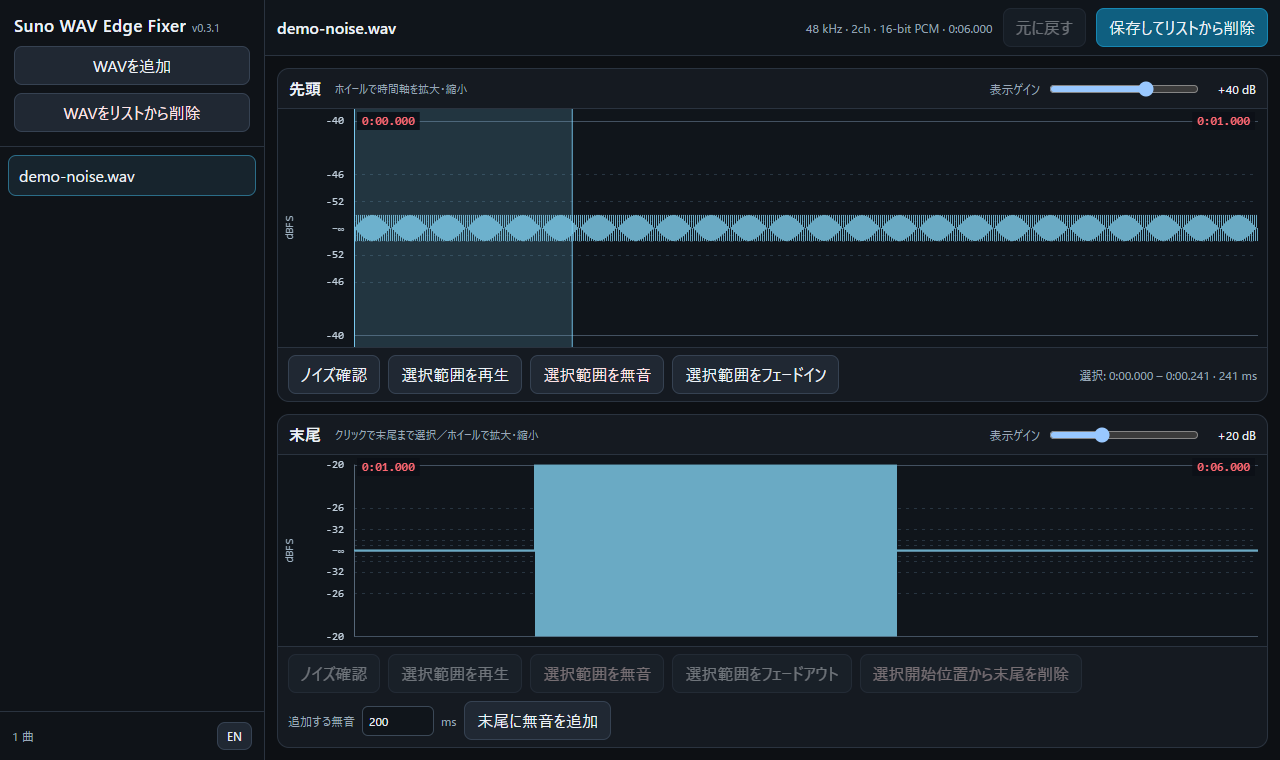
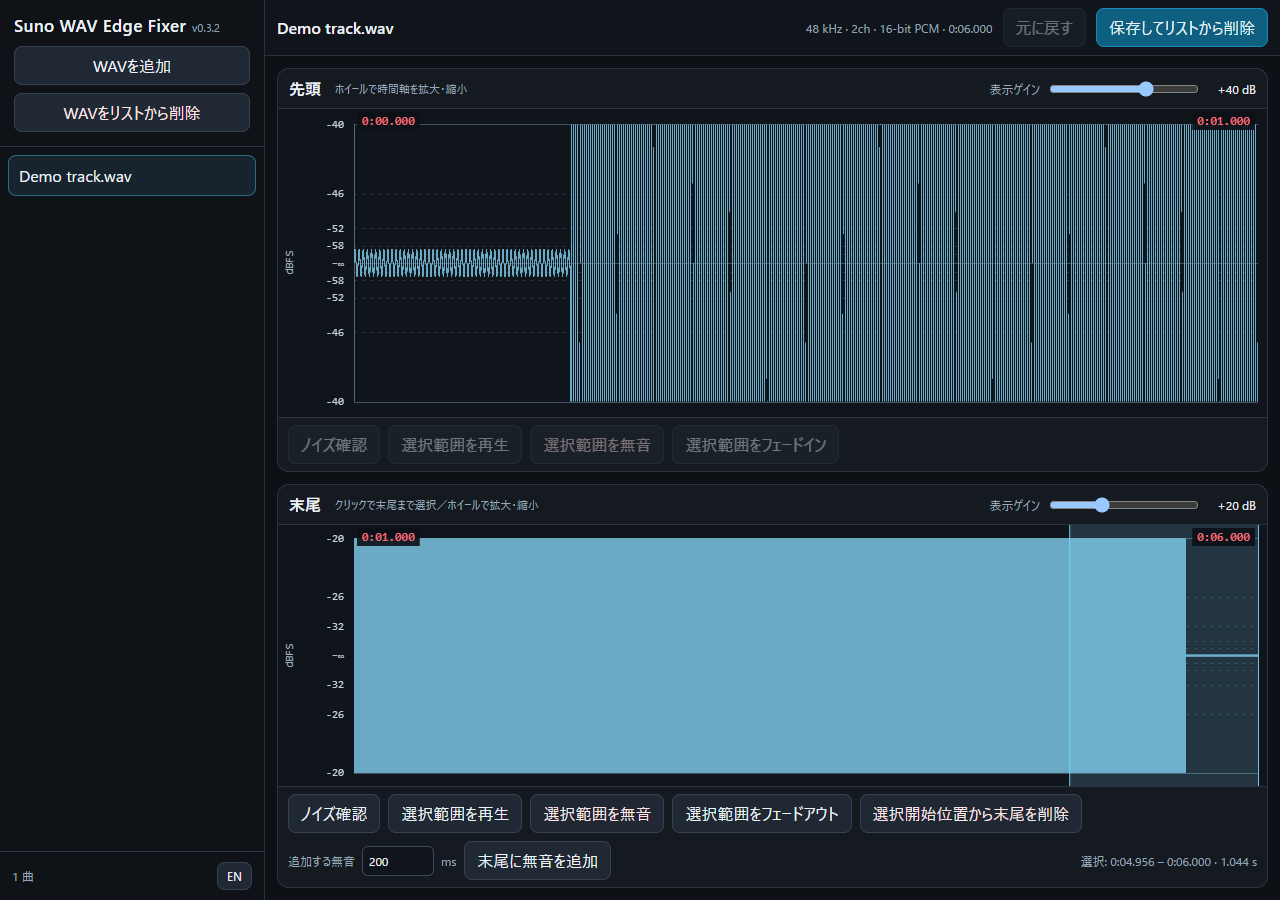
v0.3.2 uploaded.

diff --git a/index.html b/index.html
@@ -3,7 +3,7 @@
 <head>
 <meta charset="utf-8" />
 <meta name="viewport" content="width=device-width, initial-scale=1" />
-<title>Suno WAV Edge Fixer v0.3.1</title>
+<title>Suno WAV Edge Fixer v0.3.2</title>
 <style>
   :root {
     color-scheme: dark;
@@ -299,7 +299,7 @@
 <div id="app">
   <aside class="sidebar">
     <div class="sidebar-head">
-      <div class="brand">Suno WAV Edge Fixer<span id="appVersion" class="version">v0.3.1</span></div>
+      <div class="brand">Suno WAV Edge Fixer<span id="appVersion" class="version">v0.3.2</span></div>
       <div class="add-row">
         <button id="addFilesBtn" data-i18n="addFiles">WAVを追加</button>
         <input id="fileInput" type="file" accept="audio/wav,.wav" multiple hidden />
@@ -1149,13 +1149,20 @@
 
   function bindWaveInteractions(kind) {
     const canvas = views[kind].canvas;
-    let dragging = false;
+    let dragPointerId = null;
     let anchor = 0;
 
+    function cancelDrag() {
+      if (dragPointerId === null) return;
+      const pointerId = dragPointerId;
+      dragPointerId = null;
+      try { canvas.releasePointerCapture(pointerId); } catch (_) {}
+    }
+
     canvas.addEventListener('pointerdown', ev => {
-      if (!current || isSaving) return;
+      if (!current || isSaving || ev.button !== 0 || dragPointerId !== null) return;
       stopPlayback();
-      dragging = true;
+      dragPointerId = ev.pointerId;
       anchor = canvasTimeFromEvent(kind, ev);
       views[kind].selection = { start: anchor, end: anchor };
       canvas.setPointerCapture(ev.pointerId);
@@ -1164,18 +1171,23 @@
     });
 
     canvas.addEventListener('pointermove', ev => {
-      if (!dragging || !current) return;
+      if (ev.pointerId !== dragPointerId) return;
+      // A release outside the window can arrive without pointerup on this canvas.
+      // Hover must never extend a selection, even if capture/blur events were lost.
+      if (!(ev.buttons & 1) || !current || isSaving || !views[kind].selection) {
+        cancelDrag();
+        return;
+      }
       views[kind].selection.end = canvasTimeFromEvent(kind, ev);
       drawWave(kind);
       updateControls();
     });
 
     const finish = ev => {
-      if (!dragging) return;
-      dragging = false;
-      try { canvas.releasePointerCapture(ev.pointerId); } catch (_) {}
+      if (ev.pointerId !== dragPointerId) return;
+      cancelDrag();
       const sel = views[kind].selection;
-      if (sel && Math.abs(sel.end - sel.start) < 0.0005) {
+      if (current && sel && Math.abs(sel.end - sel.start) < 0.0005) {
         // A single click on Tail chooses a precise cut / fade-to-end point.
         views[kind].selection = kind === 'tail'
           ? { start: anchor, end: current.info.duration }
@@ -1185,11 +1197,18 @@
       updateControls();
     };
     canvas.addEventListener('pointerup', finish);
-    canvas.addEventListener('pointercancel', finish);
+    window.addEventListener('pointerup', finish);
+    for (const type of ['pointercancel', 'lostpointercapture']) {
+      canvas.addEventListener(type, ev => {
+        if (ev.pointerId === dragPointerId) cancelDrag();
+      });
+    }
+    window.addEventListener('blur', cancelDrag);
 
     canvas.addEventListener('wheel', ev => {
       if (!current) return;
       ev.preventDefault();
+      cancelDrag();
       stopPlayback();
       const v = views[kind];
       const factor = ev.deltaY < 0 ? 0.8 : 1.25;

diff --git a/README.md b/README.md
@@ -1,6 +1,8 @@
 # Suno WAV Edge Fixer
 
-**バージョン：v0.3.1**
+**バージョン：v0.3.2**
+
+v0.3.2では、マウスを離した後も波形の選択が追従する問題と、ドラッグ中のホイール操作によるエラーを修正しました。
 
 **Sunoなどで生成したWAV音源の先頭・末尾だけを、ブラウザで手早く修正するツールです。**
 
@@ -8,7 +10,7 @@
 
 - **インストール不要**：`index.html` を Chrome / Edge で開くだけ（オフライン動作）。
 - **波形の表示ゲイン 0〜+60 dB**：実際の音源を増幅せず、極小ノイズを視認。
-- **ノイズ確認（v0.3.1）**：「選択範囲を再生」の左のボタンで、小さな音を試聴用に自動増幅。出力ピークと短時間RMSで増幅量を抑え、保存するWAVは変更しません。
+- **ノイズ確認**：「選択範囲を再生」の左のボタンで、小さな音を試聴用に自動増幅。出力ピークと短時間RMSで増幅量を抑え、保存するWAVは変更しません。
 - **先頭**：範囲の無音化・フェードイン。
 - **末尾**：範囲の無音化・フェードアウト・指定位置以降の切り詰め・無音の追加。
 - **原音の維持**：対応するWAVのPCMサンプルを直接編集。未編集区間を再エンコードしません。
@@ -69,6 +71,6 @@ MIT License — Copyright (c) 2026 cityedge. 詳細は [LICENSE](LICENSE) を参
 
 ## English overview
 
-**Suno WAV Edge Fixer v0.3.1** is a lightweight, offline, browser-based editor for cleaning up the **beginning and end** of WAV tracks. Inspect very quiet clicks using display-only gain (+0 to +60 dB), audition them with **Check noise**, silence a selection, apply a linear fade-in/out, trim the end, or append silence. Queue multiple tracks, download each edited WAV under its original filename, or remove unaffected tracks from the list without downloading them.
+**Suno WAV Edge Fixer v0.3.2** is a lightweight, offline, browser-based editor for cleaning up the **beginning and end** of WAV tracks. Inspect very quiet clicks using display-only gain (+0 to +60 dB), audition them with **Check noise**, silence a selection, apply a linear fade-in/out, trim the end, or append silence. Queue multiple tracks, download each edited WAV under its original filename, or remove unaffected tracks from the list without downloading them.
 
 Open `index.html` in desktop Chrome or Edge; no installation, build process, server, or upload is required. The interface supports both Japanese and English. Output remains in the source WAV's sample rate, channel count and sample format. **See the [English user manual](USER_MANUAL_EN.md)** for steps, shortcuts and limitations. Licensed under the [MIT License](LICENSE).

diff --git a/USER_MANUAL_EN.md b/USER_MANUAL_EN.md
@@ -1,6 +1,6 @@
 # Suno WAV Edge Fixer — User Manual
 
-**Applies to v0.3.1 · Updated October 9, 2026**
+**Applies to v0.3.2 · Updated November 14, 2026**
 
 ## 1. Purpose
 
@@ -37,6 +37,8 @@ The **Display gain** slider multiplies the waveform **for display only**. For ex
 The left-hand scale is **dBFS of the underlying sample amplitude**, not LUFS or perceived loudness. With a +40 dB display gain, the top/bottom edges represent approximately −40 dBFS; half that distance from the center represents −46 dBFS; one quarter represents −52 dBFS. The center is zero amplitude (−∞ dBFS). Positive and negative excursions are mirrored; channels share the plot instead of appearing as separate tracks. These are axis marks, not automated peak measurements.
 
 **Selecting time ranges:** Drag over the Head waveform to select a range. Drag over the Tail waveform, or **single-click the Tail waveform to select from that point through the end**. The highlighted selection and its start/end/duration appear below the graph. Editing boundaries are aligned to audio sample frames.
+
+Selection follows the pointer only while the primary button is held. Releasing the button, losing window focus, or losing pointer capture ends the drag. Wheel zoom ends any active drag and clears that waveform's selection.
 
 ## 4. Head operations
 

diff --git a/CHANGELOG.md b/CHANGELOG.md
@@ -1,5 +1,10 @@
 # Changelog
 
+## v0.3.2 — 2026-11-14
+
+- Fixed waveform selection continuing on hover after pointer capture or window focus was lost. Selection now also checks the pressed mouse button and active pointer.
+- Cancel an active waveform drag before wheel zoom clears the selection, preventing a subsequent pointer move from raising an error. Normal tail click-to-end selection is preserved.
+
 ## v0.3.1 — 2026-10-09
 
 - Added **Check noise** buttons to Head and Tail, immediately before **Play selection** in the existing control rows.
